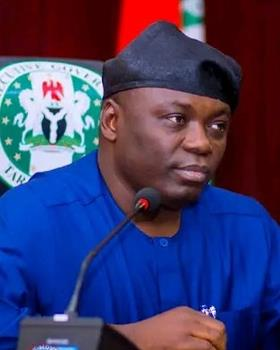
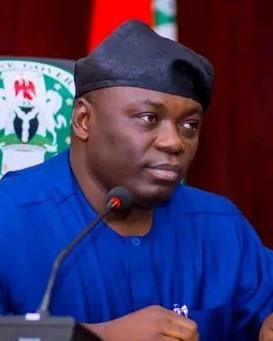
fix(settings): stop seedSettings wiping admin edits on every boot + Governor portrait styling
- seedSettings used ON CONFLICT DO UPDATE, so initDb()->seed() on every restart/redeploy reset every setting back to its hardcoded default (logo, governor_name, colors...). Switch to DO NOTHING so user edits persist while new default keys are still backfilled (mirrors seedLgas/seedOwner).
- Stage the verified Governor portrait as a durable committed asset at public/img/photos/governor.jpg (survives Render redeploys, unlike ephemeral /uploads).
- Enhance .gov-portrait: gold accent keyline, layered depth, hover lift + zoom using theme vars.

diff --git a/public/css/main.css b/public/css/main.css
@@ -377,12 +377,34 @@ table.data td.actions { white-space: nowrap; }
   align-items: start;
 }
 .gov-portrait {
+  position: relative;
   margin: 0;
   aspect-ratio: 4 / 5;
   border-radius: var(--radius);
   overflow: hidden;
   background: var(--primary-tint);
   border: 1px solid var(--line);
+  /* Accent frame + soft depth so the portrait reads as the featured leadership image. */
+  box-shadow: 0 2px 6px rgba(15, 45, 30, .10), 0 18px 40px rgba(15, 45, 30, .14);
+  transition: transform .3s ease, box-shadow .3s ease;
+}
+/* Gold inner keyline (theme accent) inset inside the rounded frame. */
+.gov-portrait::after {
+  content: "";
+  position: absolute;
+  inset: 0;
+  border-radius: inherit;
+  pointer-events: none;
+  box-shadow: inset 0 0 0 4px var(--accent);
+  opacity: .9;
+}
+.gov-portrait img { transition: transform .4s ease; }
+@media (hover: hover) {
+  .gov-portrait:hover {
+    transform: translateY(-4px);
+    box-shadow: 0 4px 10px rgba(15, 45, 30, .12), 0 26px 54px rgba(15, 45, 30, .20);
+  }
+  .gov-portrait:hover img { transform: scale(1.03); }
 }
 .vision-block { margin-top: 18px; }
 .vision-block h3 { font-size: 1.05rem; margin-bottom: .25em; color: var(--primary); }

diff --git a/db.js b/db.js
@@ -359,8 +359,13 @@ function makeMailAddress(fullName, domain) {
 }
 
 async function seedSettings() {
+  // Seed defaults ONLY for keys that don't exist yet.  seedSettings() runs on
+  // every boot (initDb -> seed), so an unconditional "ON CONFLICT DO UPDATE"
+  // would clobber any value the admin set via Site settings on each restart /
+  // redeploy.  DO NOTHING preserves user edits while still backfilling brand-new
+  // default keys — mirroring seedLgas()/seedOwner() above.
   for (const [key, value] of Object.entries(DEFAULT_SETTINGS)) {
-    await rawRun(`INSERT INTO settings (key, value, updated_at) VALUES (?, ?, CURRENT_TIMESTAMP) ON CONFLICT (key) DO UPDATE SET value = excluded.value, updated_at = CURRENT_TIMESTAMP`, [key, String(value)]);
+    await rawRun(`INSERT INTO settings (key, value, updated_at) VALUES (?, ?, CURRENT_TIMESTAMP) ON CONFLICT (key) DO NOTHING`, [key, String(value)]);
   }
 }
 
